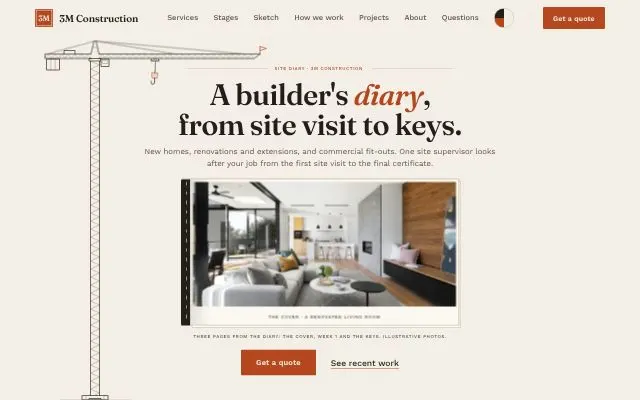
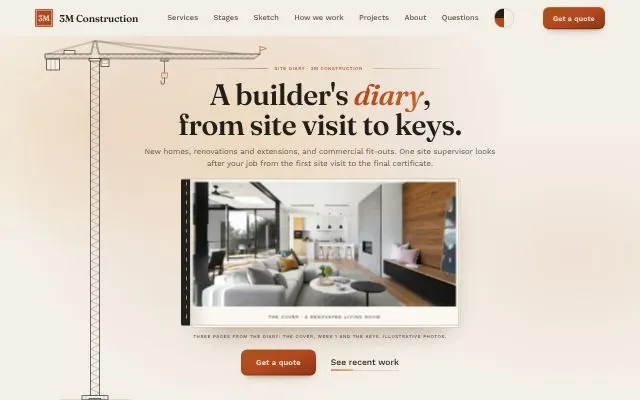
The Build: gradient and modern refinement
Soft gradient fields per section, two slow drifting colour fields (hero and enquiry, on screen
only), gradient hairline dividers, gradient accent text, embossed gradient buttons, rounder cards
with gradient borders, a gradient service ribbon, deep gradient ink sections. All from theme
tokens; footer skyline now follows the theme. Phone LCP 2.34s, CLS 0.

Claude-Session: https://claude.ai/code/session_01NUNLhJrusTmTFauQM2HaBr

diff --git a/assets/build/s-modern.css b/assets/build/s-modern.css
@@ -1,0 +1,195 @@
+/* s-modern: a gradient layer over The Build. Loaded last so it can refine every section.
+   Every colour comes from the theme tokens (themes.js), mixed with color-mix(), so all six themes follow.
+   Motion: only the two background blobs drift (transform, 34s and 40s), only while their section is on screen
+   and the tab is visible (.m-live from s-modern.js); none under reduced motion or on html.lite. No backdrop-filter. */
+:root{
+  --gl:var(--glow,#D98A2B);
+  /* rust shifted toward the glow colour at the same darkness: passes 4.5:1 under paper text in every theme */
+  --m-amber:color-mix(in oklab,color-mix(in oklab,var(--rust) 50%,var(--gl)) 86%,#000);
+  --m-rust-dk:color-mix(in oklab,var(--rust) 82%,#000);
+  --m-text:linear-gradient(100deg,var(--rust) 15%,color-mix(in oklab,var(--rust) 55%,var(--gl)) 95%);
+  --m-line:linear-gradient(90deg,var(--rust),var(--gl));
+  --m-hair:linear-gradient(90deg,transparent,color-mix(in srgb,var(--rust) 75%,transparent) 22%,color-mix(in srgb,var(--gl) 80%,transparent) 55%,transparent);
+  --m-gb:linear-gradient(135deg,var(--rust),var(--gl) 32%,var(--rule-2) 66%,var(--rule));
+  --m-btn:linear-gradient(160deg,var(--m-amber) 0%,var(--rust) 48%,var(--m-rust-dk) 100%);
+  --m-k:1;
+  --m-g:color-mix(in srgb,var(--gl) calc(15% * var(--m-k)),transparent);
+  --m-r:color-mix(in srgb,var(--rust) calc(9% * var(--m-k)),transparent);
+  --m-m:color-mix(in srgb,var(--moss) calc(10% * var(--m-k)),transparent);
+  /* warm shadow colour; black in the night edition so a shadow never reads as a halo */
+  --m-shc:color-mix(in oklab,var(--rust-2) 40%,#2A1A0E);
+  --m-sh1:0 1px 2px color-mix(in srgb,var(--m-shc) 10%,transparent),0 6px 14px -6px color-mix(in srgb,var(--m-shc) 16%,transparent),0 20px 36px -22px color-mix(in srgb,var(--m-shc) 26%,transparent);
+  --m-sh2:0 1px 2px color-mix(in srgb,var(--m-shc) 10%,transparent),0 12px 24px -12px color-mix(in srgb,var(--m-shc) 20%,transparent),0 40px 70px -40px color-mix(in srgb,var(--m-shc) 38%,transparent);
+}
+[data-theme=night]{--m-k:.75;--m-shc:#000;--m-hi:6%}
+
+::selection{background:color-mix(in oklab,var(--rust) 24%,var(--paper));color:var(--ink)}
+:focus-visible{outline-color:var(--rust)}
+
+/* ---------- section fields and dividers ---------- */
+.sec{position:relative;isolation:isolate}
+.sec>.wrap{border-top:0}
+.sec>.wrap::before{top:0;height:1px;border:0;background:var(--m-hair)}
+.hero{background:radial-gradient(42% 46% at 12% 30%,var(--m-g),transparent 72%),radial-gradient(40% 44% at 90% 64%,var(--m-r),transparent 72%)}
+#services{background:radial-gradient(48% 38% at 88% 16%,var(--m-g),transparent 72%),radial-gradient(40% 34% at 6% 72%,var(--m-m),transparent 72%)}
+#layers{background:radial-gradient(90% 60% at 100% 0%,transparent 20%,var(--paper) 85%),conic-gradient(from 180deg at 100% 0%,transparent,var(--m-g) 28deg,var(--m-r) 58deg,transparent 90deg),radial-gradient(40% 26% at 6% 80%,var(--m-m),transparent 72%)}
+#process{background:radial-gradient(36% 16% at 4% 30%,var(--m-g),transparent 72%),radial-gradient(40% 18% at 96% 76%,var(--m-r),transparent 72%)}
+#projects{background:radial-gradient(40% 28% at 94% 24%,var(--m-g),transparent 72%),radial-gradient(38% 28% at 4% 72%,var(--m-r),transparent 72%)}
+#people{background:radial-gradient(44% 34% at 90% 32%,var(--m-r),transparent 72%),radial-gradient(40% 26% at 8% 70%,var(--m-g),transparent 72%)}
+#faq{background:radial-gradient(50% 50% at 50% 46%,color-mix(in srgb,var(--paper-2) 80%,transparent),transparent 76%),radial-gradient(34% 30% at 82% 30%,var(--m-g),transparent 72%)}
+#contact{overflow:clip;background:radial-gradient(36% 30% at 2% 40%,var(--m-g),transparent 72%),radial-gradient(40% 34% at 96% 72%,var(--m-r),transparent 72%)}
+
+/* two slow drifting blobs: the hero and the enquiry section */
+.hero::before,#contact::before{content:"";position:absolute;z-index:-2;border-radius:50%;pointer-events:none;will-change:transform;animation:m-drift 34s ease-in-out infinite alternate both paused}
+.hero::before{width:min(78vmax,1100px);aspect-ratio:1;left:50%;top:44%;margin:calc(min(78vmax,1100px) / -2) 0 0 calc(min(78vmax,1100px) / -2);background:radial-gradient(closest-side,color-mix(in srgb,var(--gl) calc(20% * var(--m-k)),transparent),color-mix(in srgb,var(--rust) calc(7% * var(--m-k)),transparent) 58%,transparent)}
+#contact::before{width:min(70vmax,980px);aspect-ratio:1;right:-18%;top:12%;background:radial-gradient(closest-side,color-mix(in srgb,var(--gl) calc(16% * var(--m-k)),transparent),color-mix(in srgb,var(--moss) calc(6% * var(--m-k)),transparent) 60%,transparent);animation-name:m-drift2;animation-duration:40s}
+.hero.m-live::before,#contact.m-live::before{animation-play-state:running}
+@keyframes m-drift{0%{transform:translate(-14%,-6%)}50%{transform:translate(6%,7%)}100%{transform:translate(15%,-8%)}}
+@keyframes m-drift2{0%{transform:translate(0,0)}50%{transform:translate(-22%,12%)}100%{transform:translate(-8%,-6%)}}
+html.lite .hero::before,html.lite #contact::before{display:none}
+
+/* ---------- masthead ---------- */
+.hdr.solid,.hdr.open{border-color:transparent}
+.hdr::after{content:"";position:absolute;left:0;right:0;bottom:-1px;height:1px;background:var(--m-hair);opacity:0;transition:opacity .6s;pointer-events:none}
+.hdr.solid::after,.hdr.open::after{opacity:1}
+.menu-btn{border-radius:12px}
+
+/* ---------- buttons: embossed gradient, a pressed state and the soft light sweep ---------- */
+.btn{position:relative;overflow:hidden;isolation:isolate;border-radius:12px;background:var(--m-btn);box-shadow:inset 0 1px 0 color-mix(in srgb,#fff 26%,transparent),inset 0 -2px 0 color-mix(in srgb,#000 22%,transparent),0 1px 2px color-mix(in srgb,var(--m-shc) 22%,transparent),0 10px 18px -12px color-mix(in srgb,var(--m-shc) 60%,transparent);transition:box-shadow .5s,transform .5s var(--ease)}
+.btn::before{content:"";position:absolute;inset:0;z-index:-1;background:linear-gradient(180deg,transparent,color-mix(in srgb,#000 16%,transparent));opacity:0;transition:opacity .5s}
+.btn::after{content:"";position:absolute;top:0;bottom:0;left:-50%;width:36%;z-index:-1;background:linear-gradient(100deg,transparent,color-mix(in srgb,#fff 30%,transparent),transparent);transform:translateX(0) skewX(-18deg);transition:transform 1.1s var(--ease);pointer-events:none}
+.btn:hover{background:var(--m-btn)}
+.btn:hover::before{opacity:1}
+.btn:hover::after{transform:translateX(450%) skewX(-18deg)}
+.btn:active{transform:translateY(1px);box-shadow:inset 0 2px 6px color-mix(in srgb,#000 30%,transparent),inset 0 -1px 0 color-mix(in srgb,#fff 12%,transparent)}
+.btn:disabled::after{display:none}
+.qbar a{border-radius:12px}
+.qbar a.q2{background:var(--m-btn);border-color:transparent;box-shadow:inset 0 1px 0 color-mix(in srgb,#fff 26%,transparent),inset 0 -2px 0 color-mix(in srgb,#000 22%,transparent)}
+
+/* secondary links: a gradient underline that grows on hover */
+.tlink{position:relative;display:inline-block;text-decoration:none;padding-bottom:4px}
+.tlink::before,.tlink::after{content:"";position:absolute;left:0;right:0;bottom:0;height:1px;background:var(--rule-2)}
+.tlink::after{height:2px;background:var(--m-line);transform:scaleX(.32);transform-origin:0 50%;transition:transform .9s var(--ease)}
+.tlink:hover::after,.tlink:focus-visible::after{transform:none}
+
+/* ---------- gradient text: the cover's accent word, the drop cap, the diary dates ---------- */
+.hero h1 em,.dc,.stats b{background:var(--m-text);-webkit-background-clip:text;background-clip:text;color:transparent;-webkit-box-decoration-break:clone;box-decoration-break:clone}
+.hero h1 em{padding-right:.08em;margin-right:-.08em}
+.date b{background:linear-gradient(100deg,var(--moss) 25%,color-mix(in oklab,var(--moss) 50%,var(--rust)));-webkit-background-clip:text;background-clip:text;color:transparent}
+
+/* ---------- small details ---------- */
+.tick li::before{left:0;top:6px;width:18px;height:18px;border:0;border-radius:50%;background:var(--m-line);transform:none;box-shadow:inset 0 1px 0 color-mix(in srgb,#fff 25%,transparent)}
+.tick li::after{content:"";position:absolute;left:5.5px;top:11px;width:7px;height:4px;border-left:1.6px solid var(--paper);border-bottom:1.6px solid var(--paper);transform:rotate(-45deg)}
+#people .pp-ticks li::before{top:4px}#people .pp-ticks li::after{top:9px}
+.hero-strip span::before{background:var(--m-line)}
+.issue::before,.issue::after{border-top:0;height:1px;background:linear-gradient(90deg,transparent,var(--rule-2) 40%,var(--rust))}
+.issue::after{background:linear-gradient(270deg,transparent,var(--rule-2) 40%,var(--gl))}
+.pull{border-image:linear-gradient(90deg,transparent,var(--rust) 25%,var(--gl) 60%,transparent) 1}
+.aside h3{border-bottom:1px solid;border-image:linear-gradient(90deg,var(--rust),var(--gl) 30%,var(--rule) 70%) 1}
+input,select,textarea{border-radius:10px}
+
+/* ---------- hero: the diary sits on a soft warm shadow ---------- */
+.stack::after{box-shadow:0 30px 50px -30px color-mix(in srgb,var(--m-shc) 45%,transparent)}
+
+/* ---------- service band: a gradient ribbon ---------- */
+.band{border:0;background:linear-gradient(90deg,var(--m-rust-dk),var(--rust) 22%,var(--m-amber) 50%,var(--rust) 78%,var(--m-rust-dk));color:var(--paper)}
+.band-track span::after{background:color-mix(in srgb,var(--paper) 70%,transparent)}
+
+/* ---------- services: rounder tabs and panel, a gradient edge on the chosen one ---------- */
+#services .svc-tab,#services .svc-tab::before,#services .svc-tab::after{border-radius:14px}
+#services .svc-tab::before{box-shadow:inset 0 1px 0 color-mix(in srgb,#fff var(--m-hi,60%),transparent),var(--m-sh1)}
+#services .svc-tab::after{border:1px solid transparent;background:linear-gradient(var(--paper-2),var(--paper-2)) padding-box,var(--m-gb) border-box;box-shadow:inset 3px 3px 8px color-mix(in srgb,var(--m-shc) 16%,transparent)}
+#services .svc-bar{border-radius:2px}
+#services .svc-bar i{background:var(--m-line)}
+#services .svc-ph{border-radius:20px;border-color:transparent;background:linear-gradient(var(--paper-2),var(--paper-2)) padding-box,var(--m-gb) border-box;box-shadow:var(--m-sh2)}
+#services .svc-panels{border-top:0}
+
+/* ---------- layers: the drafting sheet stays crisp, the schedule gets a rounded gradient edge ---------- */
+#layers .layers-sheet{border-radius:6px;box-shadow:var(--m-sh2)}
+#layers .layers-sheet::before{border-radius:3px}
+#layers .layers-list{border-radius:14px;overflow:hidden;border-color:transparent;background:linear-gradient(var(--field),var(--field)) padding-box,var(--m-gb) border-box;box-shadow:var(--m-sh1)}
+#layers .layers-list li::after{left:0;top:0;bottom:0;background:linear-gradient(180deg,var(--rust),var(--gl))}
+#layers .layers-tb{border-radius:4px}
+
+/* ---------- sketch: a deep gradient drafting table ---------- */
+#sketch{background:radial-gradient(52% 40% at 16% 10%,color-mix(in srgb,var(--gl) calc(13% * var(--m-k)),transparent),transparent 72%),radial-gradient(46% 44% at 92% 90%,color-mix(in srgb,var(--rust) calc(18% * var(--m-k)),transparent),transparent 72%),linear-gradient(165deg,var(--sk-table),color-mix(in oklab,var(--sk-table) 86%,var(--rust)))}
+#sketch .sk-sheet{border-radius:4px}
+#sketch .sk-seg{border-radius:14px}
+#sketch .sk-seg label span,#sketch .sk-thumb{border-radius:10px}
+#sketch .sk-sw{border-radius:12px}
+#sketch .sk-chip{border-radius:7px}
+#sketch .sk-stage{border-radius:10px}
+#sketch .sk-bars i{border-radius:2px}
+#sketch .sk-bars i::after{background:var(--m-line)}
+#sketch .sk-btn,#sketch .sk-mini,#sketch .sk-blk{border-radius:12px}
+#sketch .sk-add,#sketch .sk-add:hover{background:var(--m-btn);border-color:transparent}
+
+/* ---------- process: the sheet lifts off the page, the rule and dots fill in gradient ---------- */
+#process .pf-sheet{border-radius:12px;box-shadow:var(--m-sh2)}
+#process .pf-sheet::before{border-radius:8px}
+#process .pf-bar{border-radius:3px;overflow:hidden}
+#process .pf-bar i::after{background:var(--m-line)}
+.diary .rule i{background:linear-gradient(180deg,var(--rust),var(--gl))}
+#process .entry.pf-on::before{background:var(--m-line);border-color:transparent}
+
+/* ---------- projects: rounder plates with a gradient edge ---------- */
+#projects .pj-mount{border-radius:20px;border-color:transparent;background:linear-gradient(var(--field),var(--field)) padding-box,var(--m-gb) border-box;box-shadow:var(--m-sh1)}
+#projects .pj-cmp{border-radius:14px}
+#projects .pj-handle::before{background:linear-gradient(180deg,var(--rust),var(--gl) 50%,var(--rust))}
+#projects .pj-knob{background:var(--m-btn);box-shadow:inset 0 1px 0 color-mix(in srgb,#fff 28%,transparent),inset 0 -2px 0 color-mix(in srgb,#000 22%,transparent),0 4px 10px -4px color-mix(in srgb,var(--m-shc) 60%,transparent)}
+@media (hover:hover) and (pointer:fine){#projects .pj-cmp:hover .pj-knob{background:var(--m-btn)}}
+#projects .pj-lbl{border-radius:7px}
+#projects .pj-tab::after{background:var(--m-line)}
+#projects .pj-note{border-top:1px solid;border-image:var(--m-hair) 1}
+
+/* ---------- people: rounded photo frames on a soft shadow ---------- */
+#people .ph{border-radius:20px;border-color:transparent;background:linear-gradient(var(--field),var(--field)) padding-box,var(--m-gb) border-box;box-shadow:var(--m-sh1)}
+#people .ph img{border-radius:14px}
+#people .ph::before{border-radius:inherit}
+
+/* ---------- questions: rounded panel rows, the open one gets the gradient edge ---------- */
+#faq .q{border-radius:14px;background:linear-gradient(var(--field),var(--field)) padding-box,linear-gradient(var(--rule-2),var(--rule-2)) border-box;border-color:transparent;box-shadow:var(--m-sh1)}
+#faq .q.open{background:linear-gradient(var(--field),var(--field)) padding-box,var(--m-gb) border-box}
+#faq .q::before{left:0;top:12px;bottom:12px;border-radius:0 3px 3px 0;background:linear-gradient(180deg,var(--rust),var(--gl))}
+#faq .qn{border-radius:7px}
+#faq .q .ic{border-radius:10px}
+#faq .q button[aria-expanded=true] .ic{background:var(--m-btn);border-color:transparent;color:var(--paper)}
+
+/* ---------- enquiry card ---------- */
+#contact .qc-card,#contact .qc-cardwrap::before,#contact .qc-cardwrap::after{border-radius:18px}
+#contact .qc-card{border-color:transparent;background:linear-gradient(var(--field),var(--field)) padding-box,var(--m-gb) border-box;box-shadow:var(--m-sh2)}
+#contact .qc-cardwrap{--sh:var(--m-sh1)}
+#contact .qc-opts{border:1px solid var(--rule-2);border-width:1px 0 0 1px;border-radius:12px;overflow:hidden}
+#contact .qc-dots .ln{border-radius:2px;overflow:hidden}
+#contact .qc-dots .ln::after{background:var(--m-line)}
+#contact .qc-dots li[aria-current] .n{background:var(--m-btn);border-color:transparent}
+#contact .qc-back{border-radius:12px}
+#contact .qc-sum,#contact .qc-nojs{border-radius:0 10px 10px 0}
+
+/* ---------- footer: a deep gradient, the skyline in theme tones ---------- */
+.foot{background:radial-gradient(60% 70% at 50% 108%,color-mix(in srgb,var(--gl) calc(12% * var(--m-k)),transparent),transparent 72%),linear-gradient(180deg,var(--deep,var(--ink)),color-mix(in oklab,var(--deep,var(--ink)) 88%,var(--rust)))}
+.foot .foot-sky{background:linear-gradient(180deg,var(--paper),color-mix(in oklab,var(--paper) 88%,var(--gl)))}
+.foot .horizon{background:linear-gradient(90deg,var(--rust),var(--gl) 50%,var(--rust))}
+.foot [fill="#DCD3C2"]{fill:color-mix(in oklab,var(--rule) 85%,var(--paper))}
+.foot [fill="#AFA695"]{fill:color-mix(in oklab,var(--rule-2) 65%,var(--ink-3))}
+.foot [stroke="#AFA695"]{stroke:color-mix(in oklab,var(--rule-2) 65%,var(--ink-3))}
+.foot .sk-mid [fill="#F4EFE6"]{fill:var(--paper)}
+.foot [stroke="#6F685C"]{stroke:var(--ink-3)}
+.foot [fill="#6F685C"]{fill:var(--ink-3)}
+.foot [fill="#221F1A"]{fill:var(--deep,var(--ink))}
+.foot [fill="#5B554B"]{fill:color-mix(in oklab,var(--deep,var(--ink)) 70%,var(--ink-3))}
+/* footer text follows the theme (the night edition supplies its own on-deep tones) */
+.foot{color:var(--on-deep-2,color-mix(in oklab,var(--paper) 72%,var(--ink)))}
+.foot .tag{color:var(--on-deep-2,color-mix(in oklab,var(--paper) 72%,var(--ink)))}
+.foot .areas,.foot ul a,.foot .legal a{color:var(--on-deep,color-mix(in oklab,var(--paper) 86%,var(--ink)))}
+.foot .legal{color:var(--on-deep-3,color-mix(in oklab,var(--paper) 64%,var(--ink)))}
+.foot .areas .sc{color:var(--on-deep-accent,color-mix(in oklab,var(--rust) 45%,var(--paper)))}
+.foot .legal{border-top:1px solid;border-image:linear-gradient(90deg,transparent,color-mix(in srgb,var(--on-deep-accent,var(--rust)) 70%,transparent),color-mix(in srgb,var(--gl) 60%,transparent),transparent) 1}
+
+/* ---------- reduced motion ---------- */
+@media (prefers-reduced-motion:reduce){
+  .hero::before,#contact::before{animation:none}
+  .btn::before,.btn::after,.tlink::after,.hdr::after{transition:none}
+  .btn:hover::after{transform:translateX(0) skewX(-18deg)}
+}
+html.lite .btn::after{display:none}

diff --git a/designs/11-the-build/index.html b/designs/11-the-build/index.html
@@ -353,6 +353,7 @@ input:focus,select:focus,textarea:focus{outline:2px solid var(--rust);outline-of
 <link rel="stylesheet" href="../../assets/build/s-quote.css?v=1">
 <link rel="stylesheet" href="../../assets/build/s-sketch.css?v=1">
 <link rel="stylesheet" href="../../assets/build/s-hero.css?v=1">
+<link rel="stylesheet" href="../../assets/build/s-modern.css?v=1">
 </head>
 <body>
 <a class="skip" href="#main">Skip to content</a>
@@ -1121,6 +1122,7 @@ input:focus,select:focus,textarea:focus{outline:2px solid var(--rust);outline-of
 <script src="../../assets/build/s-quote.js?v=1" defer></script>
 <script src="../../assets/build/s-sketch.js?v=1" defer></script>
 <script src="../../assets/build/s-hero.js?v=1" defer></script>
+<script src="../../assets/build/s-modern.js?v=1" defer></script>
 <script src="../../assets/concepts.js?v=3" defer></script>
 </body>
 </html>

diff --git a/assets/build/s-modern.js b/assets/build/s-modern.js
@@ -1,0 +1,11 @@
+/* s-modern: the two background blobs drift only while their section is on screen and the tab is visible.
+   Nothing runs under reduced motion or on low-power phones (html.lite). */
+(function () {
+  var d = document, root = d.documentElement;
+  if (!('IntersectionObserver' in window) || matchMedia('(prefers-reduced-motion: reduce)').matches) return;
+  var els = [].slice.call(d.querySelectorAll('.hero,#contact')), seen = [];
+  function sync() { els.forEach(function (el, i) { el.classList.toggle('m-live', !!seen[i] && !d.hidden && !root.classList.contains('lite')); }); }
+  var io = new IntersectionObserver(function (es) { es.forEach(function (e) { seen[els.indexOf(e.target)] = e.isIntersecting; }); sync(); });
+  els.forEach(function (el) { io.observe(el); });
+  d.addEventListener('visibilitychange', sync);
+})();
